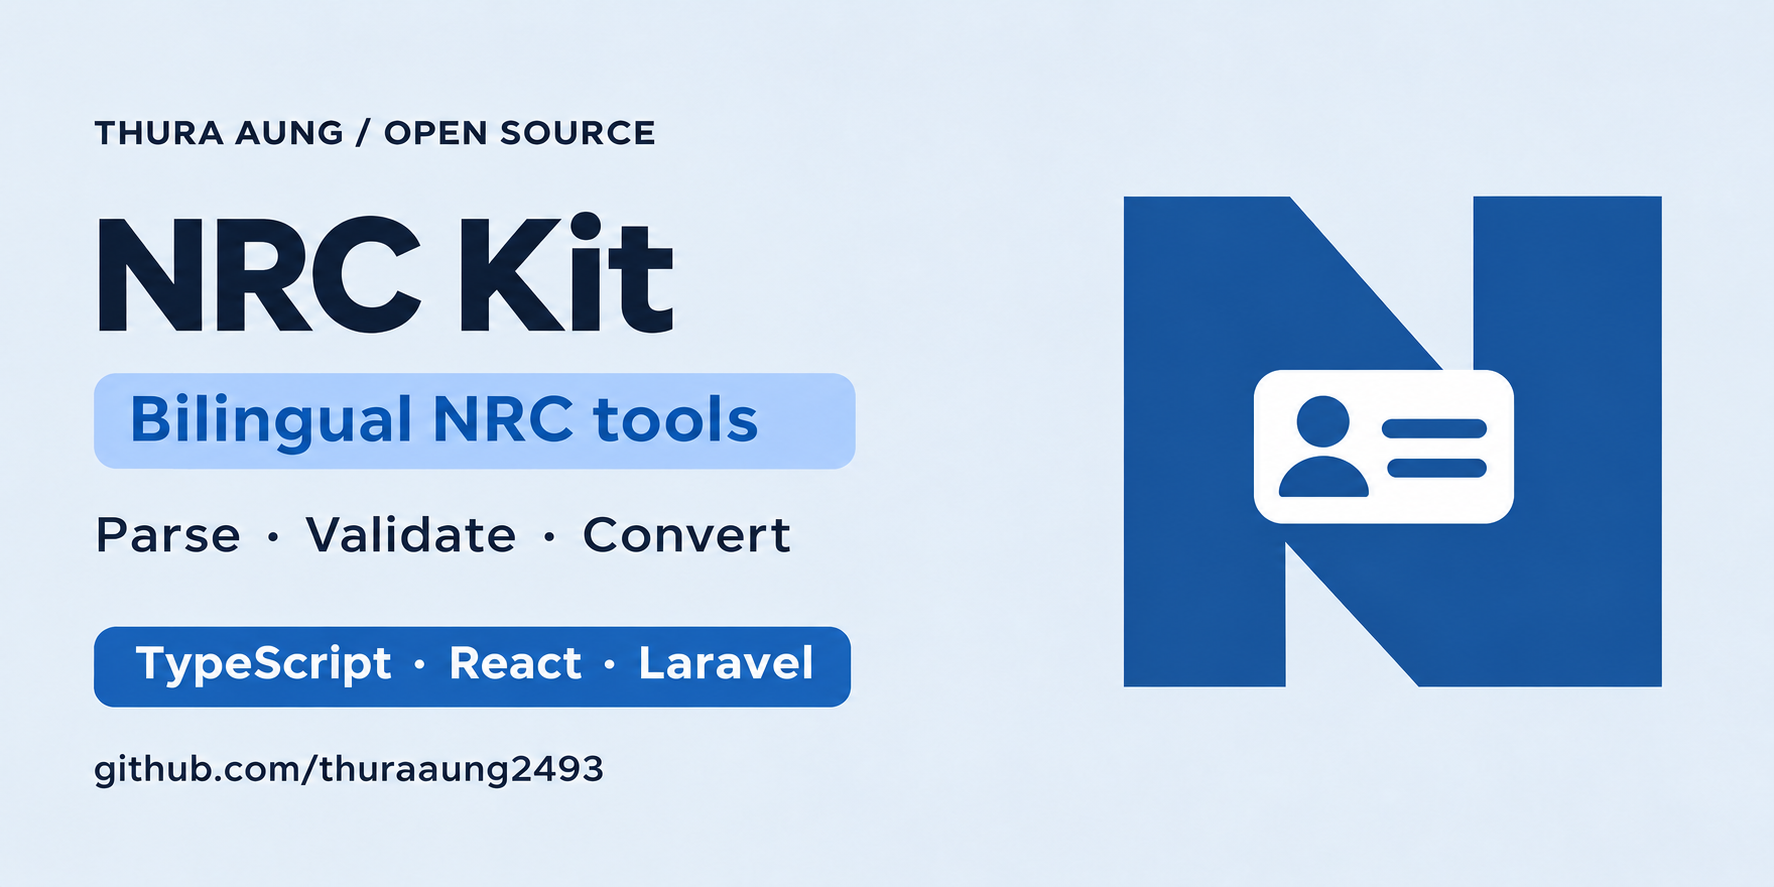
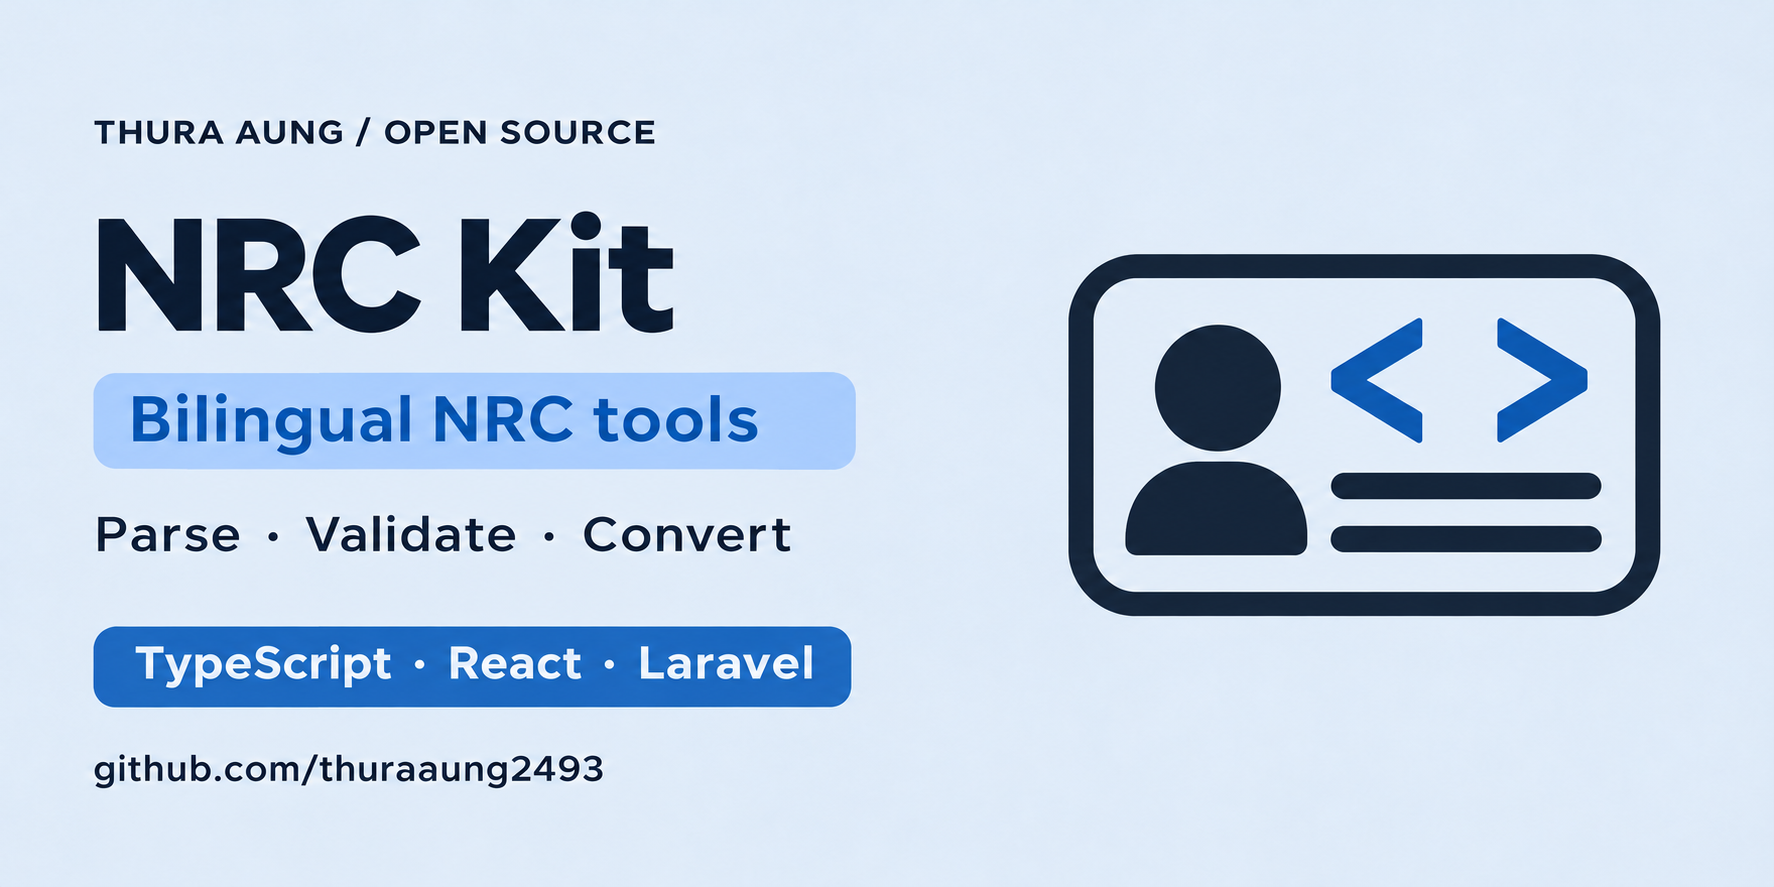
fix: use the NRC card and code brackets for the family artwork

diff --git a/src/data.ts b/src/data.ts
@@ -170,7 +170,7 @@ npm install @thuraaung2493/dynamic-form-react@beta`,
     name: 'NRC Kit',
     image: {
       src: '/projects/nrc-kit-social-preview.png',
-      alt: 'NRC Kit banner with its N and identity-card package logo.'
+      alt: 'NRC Kit banner with its identity-card and code-bracket package logo.'
     },
     category: 'TypeScript & Laravel packages',
     description:
